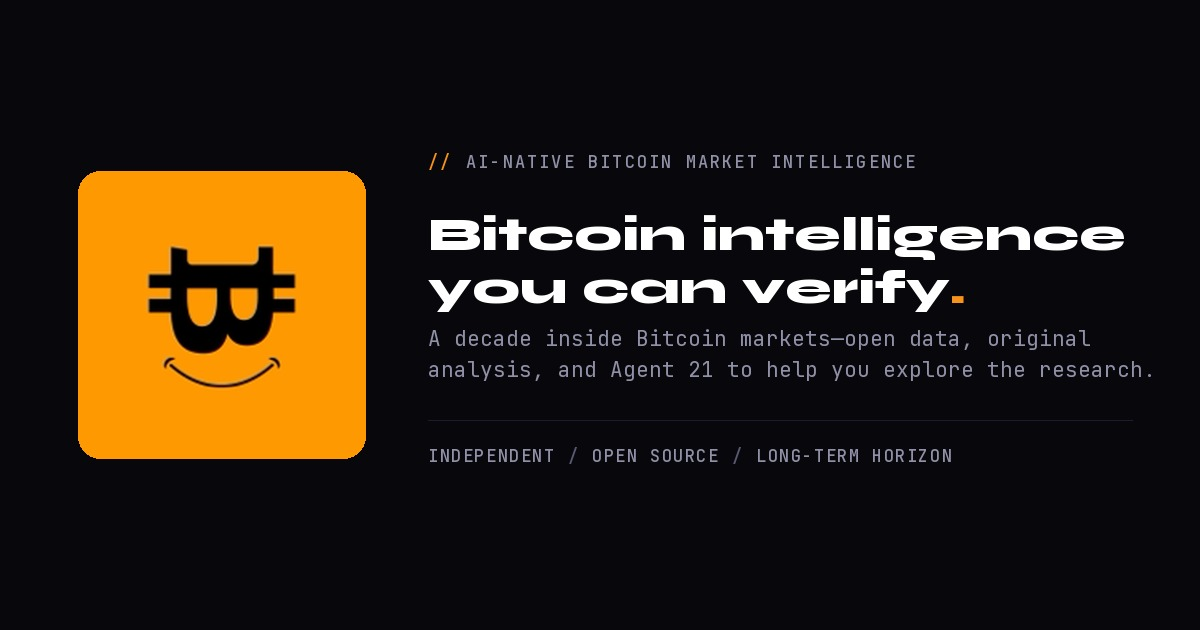
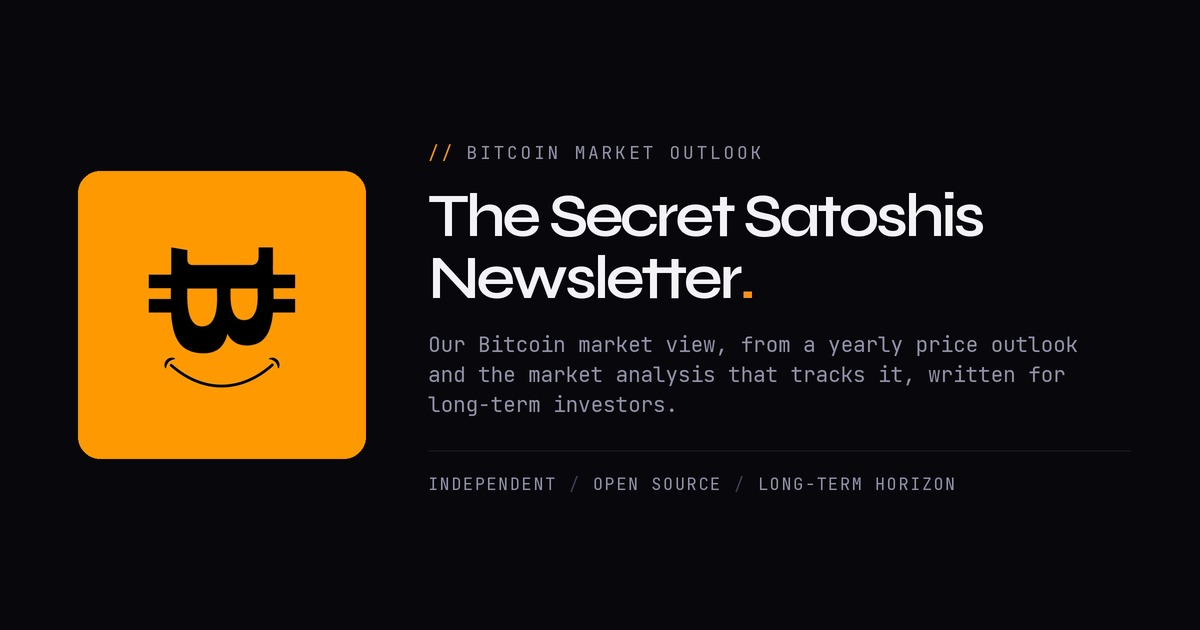
New share cards: the newsletter on the homepage, the Bitcoin-native AI agent on the Agent 21 site

diff --git a/index.html b/index.html
@@ -13,8 +13,8 @@
 <meta name="twitter:card" content="summary_large_image">
 <meta name="twitter:title" content="The Secret Satoshis Newsletter | Bitcoin Market Analysis">
 <meta name="twitter:description" content="Our Bitcoin market view, from a yearly price outlook and the market analysis that tracks it, written for long-term investors.">
-<meta name="twitter:image" content="https://secretsatoshis.com/assets/images/social-card.jpg">
-<meta name="twitter:image:alt" content="Secret Satoshis orange Bitcoin smile mark on a black background">
+<meta name="twitter:image" content="https://secretsatoshis.com/assets/images/social-card.jpg?v=2">
+<meta name="twitter:image:alt" content="The Secret Satoshis Newsletter: our Bitcoin market view, from a yearly price outlook and the market analysis that tracks it">
 <meta name="twitter:site" content="@SecretSatoshis">
 <meta name="twitter:creator" content="@SecretSatoshis">
 <meta property="og:title" content="The Secret Satoshis Newsletter | Bitcoin Market Analysis">
@@ -22,10 +22,10 @@
 <meta property="og:type" content="website">
 <meta property="og:url" content="https://secretsatoshis.com/">
 <meta property="og:locale" content="en_US">
-<meta property="og:image" content="https://secretsatoshis.com/assets/images/social-card.jpg">
+<meta property="og:image" content="https://secretsatoshis.com/assets/images/social-card.jpg?v=2">
 <meta property="og:image:width" content="1200">
 <meta property="og:image:height" content="630">
-<meta property="og:image:alt" content="Secret Satoshis orange Bitcoin smile mark on a black background">
+<meta property="og:image:alt" content="The Secret Satoshis Newsletter: our Bitcoin market view, from a yearly price outlook and the market analysis that tracks it">
 <meta property="og:site_name" content="Secret Satoshis">
 <meta name="theme-color" content="#08080c">
 <link rel="icon" href="/favicon.ico" sizes="32x32">

diff --git a/privacy.html b/privacy.html
@@ -14,10 +14,10 @@
 <meta property="og:title" content="Privacy | Secret Satoshis">
 <meta property="og:description" content="How the Secret Satoshis website handles information and third-party services.">
 <meta property="og:url" content="https://secretsatoshis.com/privacy.html">
-<meta property="og:image" content="https://secretsatoshis.com/assets/images/social-card.jpg">
-<meta property="og:image:alt" content="Secret Satoshis orange Bitcoin smile mark on a black background">
+<meta property="og:image" content="https://secretsatoshis.com/assets/images/social-card.jpg?v=2">
+<meta property="og:image:alt" content="The Secret Satoshis Newsletter: our Bitcoin market view, from a yearly price outlook and the market analysis that tracks it">
 <meta name="twitter:card" content="summary_large_image">
-<meta name="twitter:image" content="https://secretsatoshis.com/assets/images/social-card.jpg">
+<meta name="twitter:image" content="https://secretsatoshis.com/assets/images/social-card.jpg?v=2">
 <meta name="theme-color" content="#08080c">
 <link rel="icon" href="/favicon.ico" sizes="32x32">
 <link rel="icon" href="/assets/images/favicon.png" type="image/png" sizes="180x180">

diff --git a/agent21/app/page.tsx b/agent21/app/page.tsx
@@ -20,10 +20,10 @@ export const dynamic = "force-dynamic";
 const DESCRIPTION =
   "Agent 21 is the Bitcoin-native AI agent from Secret Satoshis: it starts from Bitcoin's first principles, reads on-chain data directly and applies our research to answer your questions and analyze the market.";
 const CARD = {
-  url: "https://secretsatoshis.com/assets/images/social-card.jpg",
+  url: "https://secretsatoshis.com/assets/images/agent21-social-card.jpg",
   width: 1200,
   height: 630,
-  alt: "Secret Satoshis orange Bitcoin smile mark on a black background",
+  alt: "Agent 21, the Bitcoin-native AI agent: it starts from Bitcoin's first principles, reads on-chain data directly and applies our research",
 };
 export const metadata: Metadata = {
   description: DESCRIPTION,
